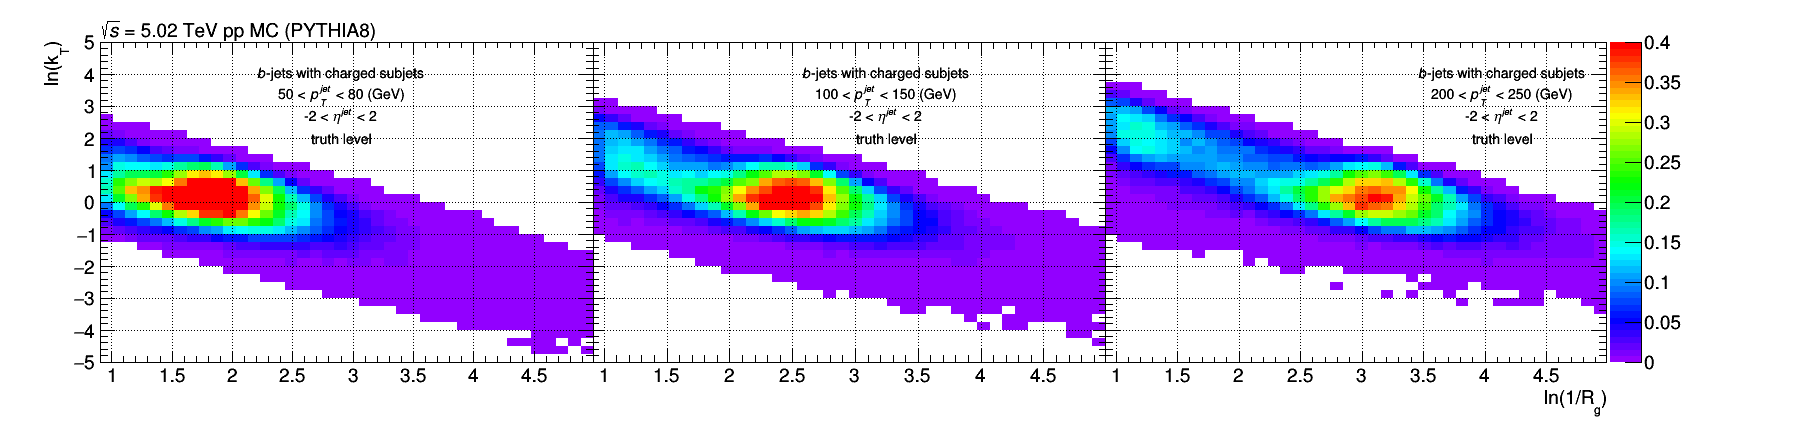
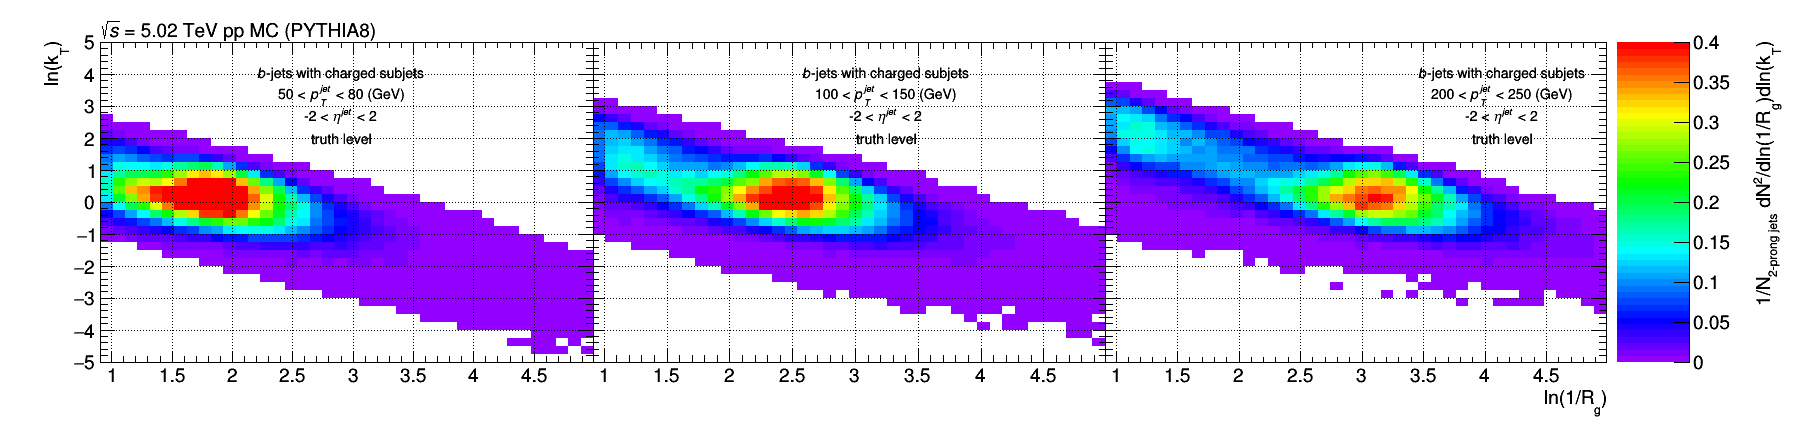
fix colorbar

Changed region(s): [[0.8721, 0.0915, 0.9967, 0.8545]]

diff --git a/myMacros/pt2dscan/HistDrawer_pt2dscan.h b/myMacros/pt2dscan/HistDrawer_pt2dscan.h
@@ -157,7 +157,17 @@ void HistDrawer_pt2dscan::draw_pt2dscan(std::string flavour = "Btag", std::strin
         h2d_ref->GetXaxis()->SetTitleOffset(1.3);
         h2d_ref->Draw("col");
         if (i == 2) { 
+            h2d_ref->GetZaxis()->SetTitle(ztitle.c_str());
+            h2d_ref->GetZaxis()->SetTitleOffset(1.5);
             h2d_ref->Draw("colz");
+            gPad->Update();
+            TPaletteAxis *palette = (TPaletteAxis *) h2d_ref->GetListOfFunctions()->FindObject("palette");
+            palette->SetX1NDC(0.74);
+            palette->SetX2NDC(0.845);
+            palette->SetY1NDC(0.15);
+            palette->SetY2NDC(0.9);
+            gPad->Modified();
+            gPad->Update();
         }
         info_ref->Draw();
 
